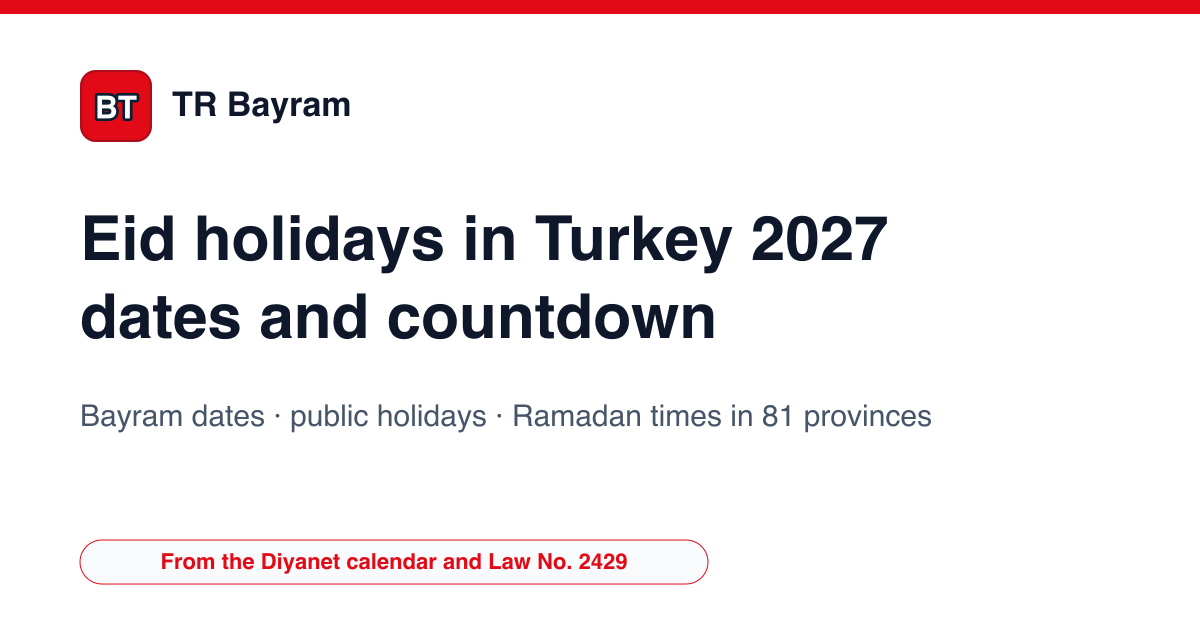
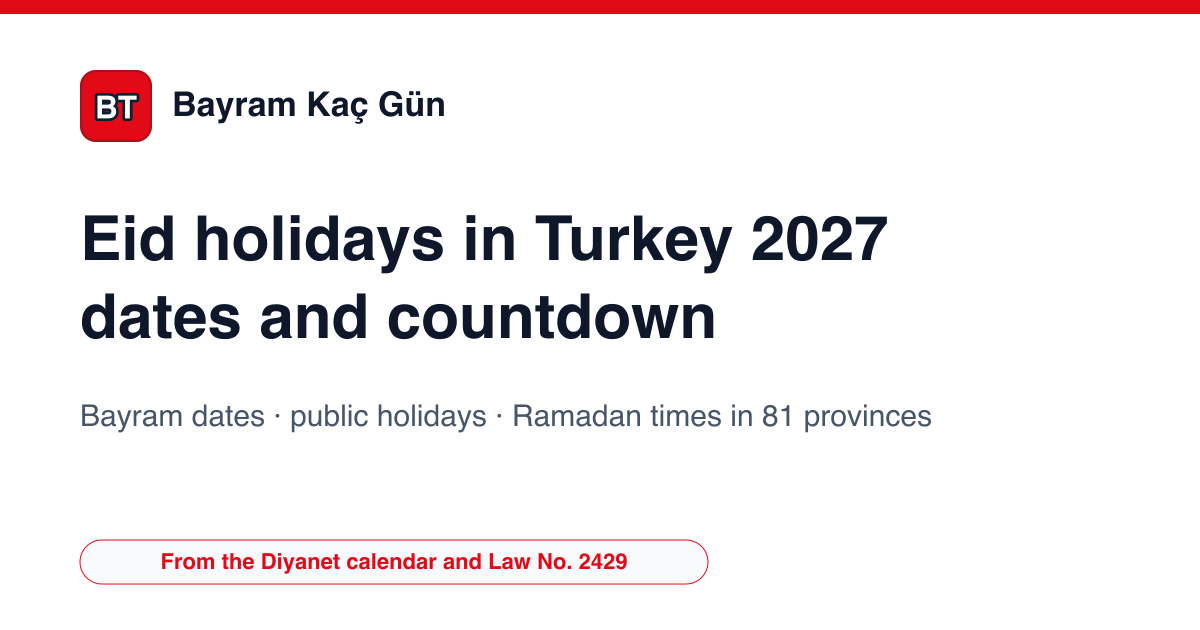
Renommage : TR Bayram devient Bayram Kaç Gün (bayramkacgun.com)
Adresse https://bayramkacgun.com, contact@bayramkacgun.com, CNAME, robots, manifest,
images OG régénérées, workflow Pages créé avec ping IndexNow.

Changed region(s): [[0.1233, 0.1206, 0.37, 0.2111]]

diff --git a/src/data/site-config.ts b/src/data/site-config.ts
@@ -1,6 +1,6 @@
 /** Configuration centrale du site (générée par new-site.py). */
-export const SITE_URL = "https://tr-bayram.example";
-export const SITE_NAMES: Record<string, string> = {"tr": "TR Bayram", "en": "TR Bayram"};
+export const SITE_URL = "https://bayramkacgun.com";
+export const SITE_NAMES: Record<string, string> = {"tr": "Bayram Kaç Gün", "en": "Bayram Kaç Gün"};
 // Partie du nom affichée en couleur dans l'en-tête (RECETTE §10.3), « » pour aucune.
 export const BRAND_ACCENT = "Bayram";
 /** Locale des nombres et des dates : anglais britannique pour la version anglaise. */
@@ -15,12 +15,12 @@ export const SITE_FOUNDED = '2026';
 export const LAST_UPDATED = '2026-10-28';
 export const AUTHOR_NAME = 'Radif Partners';
 export const AUTHOR_ROLE: Record<string, string> = {"tr": "Diyanet İşleri Başkanlığının yayımladığı dini günler takvimini, 2429 sayılı Kanunu ve 4857 sayılı İş Kanununu okuyarak bayram ve tatil tarihlerini hesaplayan bağımsız yayıncı", "en": "Independent publisher that works out Turkish religious holidays, public holidays and Ramadan times from the Diyanet calendar, Law No. 2429 and the Labour Act No. 4857"};
-export const AUTHOR_DESC: Record<string, string> = {"tr": "Radif Partners; devlet, Diyanet, belediye ya da herhangi bir dernekle bağı olmayan bağımsız bir yayıncıdır. TR Bayram için bayram tarihlerini Diyanet İşleri Başkanlığının yayımladığı dini günler listesinden, resmi tatilleri 2429 sayılı Ulusal Bayram ve Genel Tatiller Hakkında Kanunun resmi metninden, izin ve ücret kurallarını 4857 sayılı İş Kanunundan okur. İmsak ve iftar saatlerini Diyanet'in açıkladığı ölçülerle 81 il merkezi için kendisi hesaplar ve resmi takvimle karşılaştırır. Bağış toplamaz, kurban satmaz; yazdığınız hiçbir şey tarayıcınızdan çıkmaz.", "en": "Radif Partners is an independent publisher with no tie to the Turkish state, the Diyanet, any municipality or any charity. For TR Bayram it takes holiday dates from the religious-days list published by the Presidency of Religious Affairs (Diyanet), public holidays from the official text of Law No. 2429 on National Holidays and General Days Off, and leave and pay rules from Labour Act No. 4857. It computes fasting start and fast-breaking times for all 81 provincial centres with the parameters the Diyanet describes, and checks them against the official calendar. It collects no donations and sells no sacrifices; nothing you type leaves your browser."};
+export const AUTHOR_DESC: Record<string, string> = {"tr": "Radif Partners; devlet, Diyanet, belediye ya da herhangi bir dernekle bağı olmayan bağımsız bir yayıncıdır. Bayram Kaç Gün için bayram tarihlerini Diyanet İşleri Başkanlığının yayımladığı dini günler listesinden, resmi tatilleri 2429 sayılı Ulusal Bayram ve Genel Tatiller Hakkında Kanunun resmi metninden, izin ve ücret kurallarını 4857 sayılı İş Kanunundan okur. İmsak ve iftar saatlerini Diyanet'in açıkladığı ölçülerle 81 il merkezi için kendisi hesaplar ve resmi takvimle karşılaştırır. Bağış toplamaz, kurban satmaz; yazdığınız hiçbir şey tarayıcınızdan çıkmaz.", "en": "Radif Partners is an independent publisher with no tie to the Turkish state, the Diyanet, any municipality or any charity. For Bayram Kaç Gün it takes holiday dates from the religious-days list published by the Presidency of Religious Affairs (Diyanet), public holidays from the official text of Law No. 2429 on National Holidays and General Days Off, and leave and pay rules from Labour Act No. 4857. It computes fasting start and fast-breaking times for all 81 provincial centres with the parameters the Diyanet describes, and checks them against the official calendar. It collects no donations and sells no sacrifices; nothing you type leaves your browser."};
 /** Sujets sur lesquels l'editeur est competent (schema.org knowsAbout). Ce sont les
  *  themes reellement traites par le site, pas une liste de mots-cles : un sujet
  *  declare ici sans page qui le couvre est une declaration fausse. */
 export const KNOWS_ABOUT: Record<string, string[]> = {"tr": ["Kurban Bayramı ve Ramazan Bayramı tarihleri", "2429 sayılı Kanuna göre resmi tatiller", "Arefe günü yarım gün tatili", "İmsak, iftar ve sahur vakitlerinin hesaplanması", "Hicri takvim ve dini günler", "Yıllık izin ve genel tatil ücreti (4857 sayılı İş Kanunu)"], "en": ["Eid al-Fitr and Eid al-Adha dates in Turkey", "Turkish public holidays under Law No. 2429", "Half-day holiday on the eve of a bayram", "Computing fasting and fast-breaking times", "Hijri calendar and religious days in Turkey", "Annual leave and holiday pay under Turkish Labour Act No. 4857"]};
-export const CONTACT_EMAIL = "iletisim@tr-bayram.example";
+export const CONTACT_EMAIL = "contact@bayramkacgun.com";
 export const THEME_COLOR = '#E30A17';
 export const LOGO_SYMBOL = 'BT';
 export const BING_VERIFY_CODE = '';
